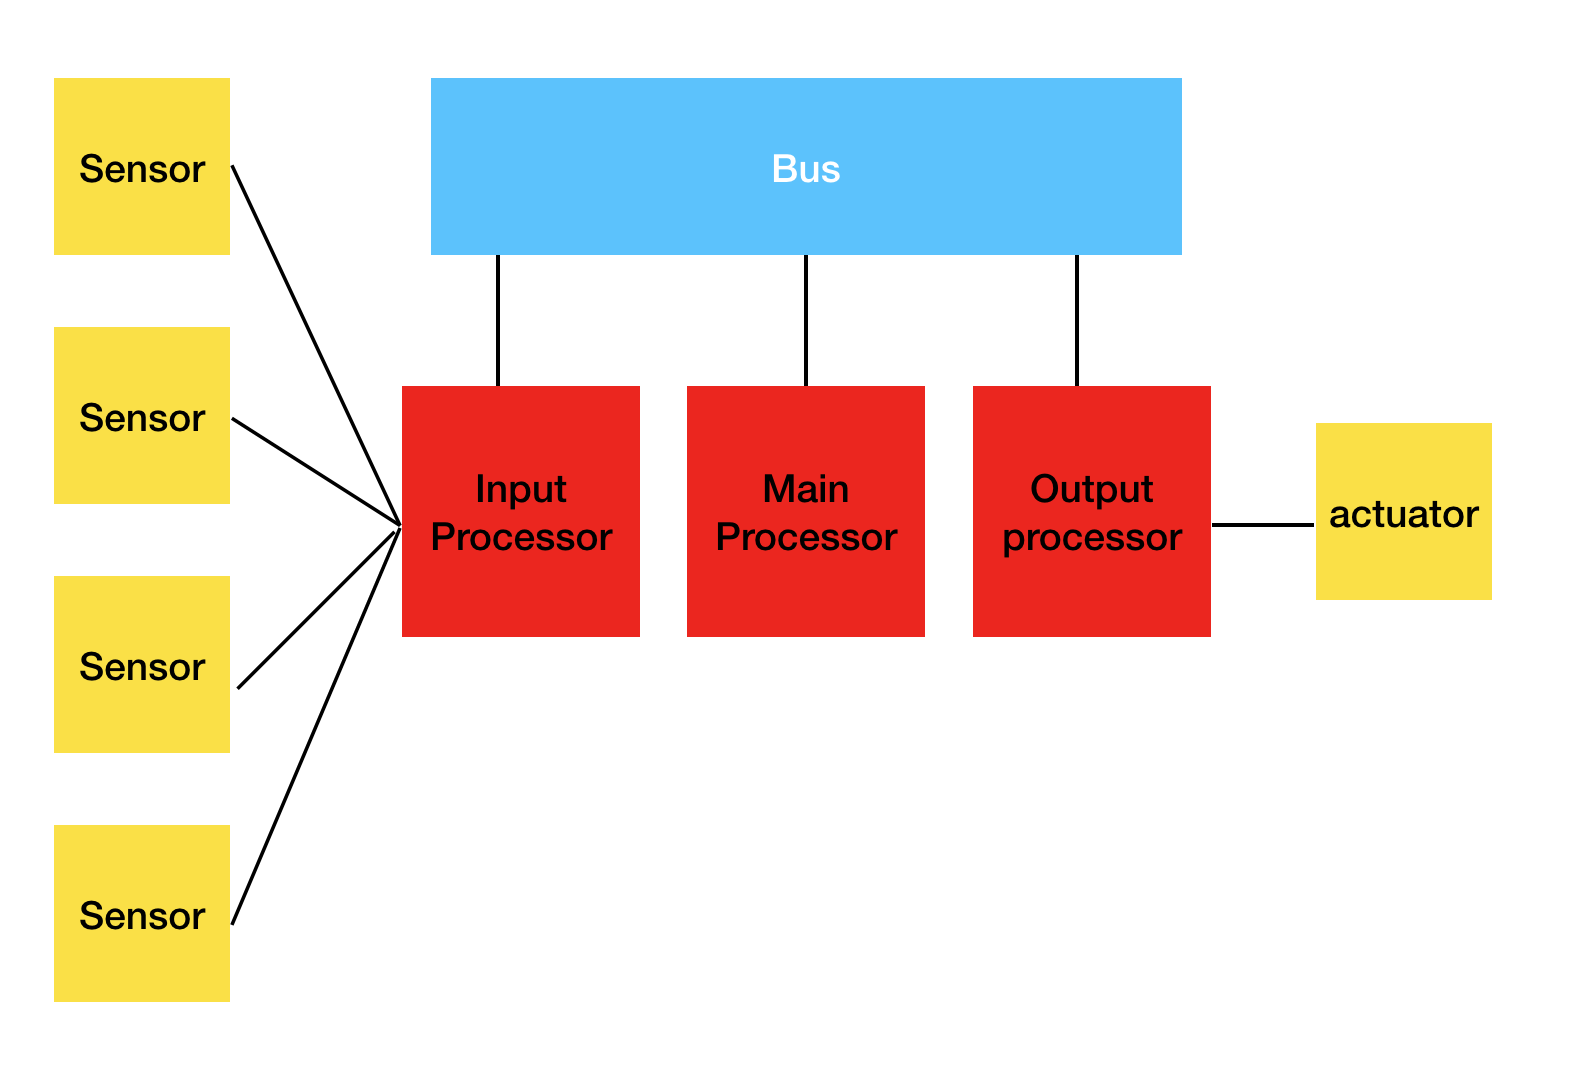
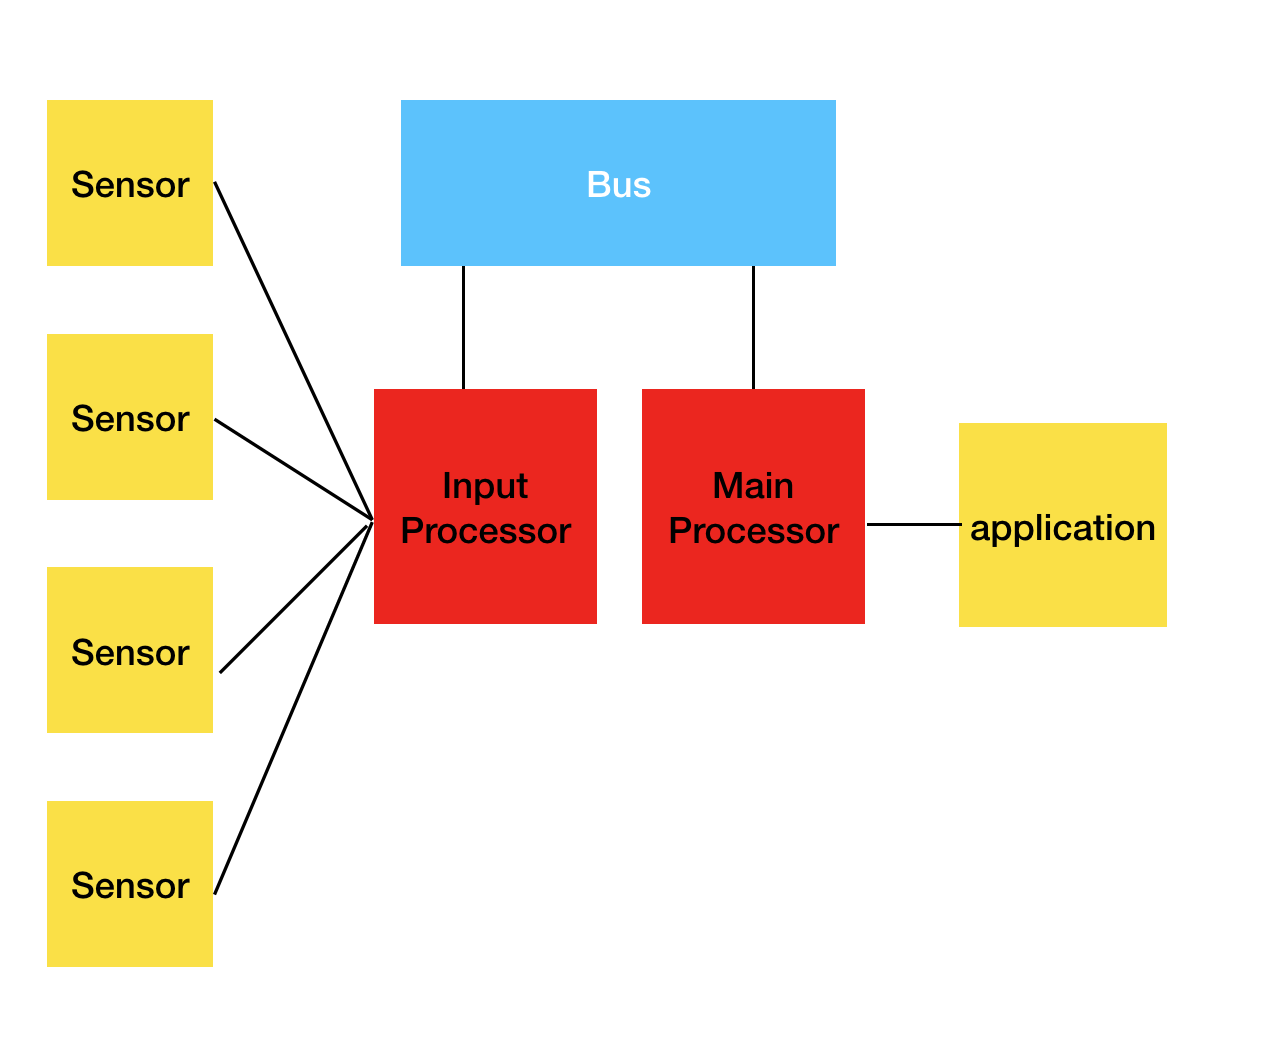
polish models
remodel 2 figures, make them more reasonable

Changed region(s): [[0.0308, 0.0614, 0.9535, 0.952]]

diff --git a/README.md b/README.md
@@ -20,15 +20,13 @@ failure situation:
 
 1. Any of `Sensor` can fail.  If available **sensor < 3**, the whole system is shut down
 
-2. `Input/Output processors` can fail.  The fail can be **permanent** fault or **transient** fault.
+2. `Input/Main processors` can fail.  The fail can be **permanent** fault or **transient** fault.
 
 3. The processors failure could be divided into two parts:
 
     - If permanent, the processor can be recovered by rebooting itself.  
 
     - If I/O processor is unavailable, M will be unable to read data from I or pass instruction to O.  In such case, M will be forced to skip the current operation cycle.  If the number of consecutive cycles skipped exceeds the limit, the system is shut down.
-
-4. `Main processor` processor can fail. If so, the system is shut down.
 
 -----
 
@@ -39,8 +37,6 @@ failure situation:
 
 1. The failure of `Sensor` is the same of model1.
 
-2. `Input/Output processors` can fail. If available **processors < 3**, the whole system is shut down.
+2. `Input` can fail. If available **processors < 3**, the whole system is shut down. `Main processor` failure is the same as model1.
 
 3. Permanent and transient situation is the same as the model1
-
-4. `Main processor` failure is the same as model1.
